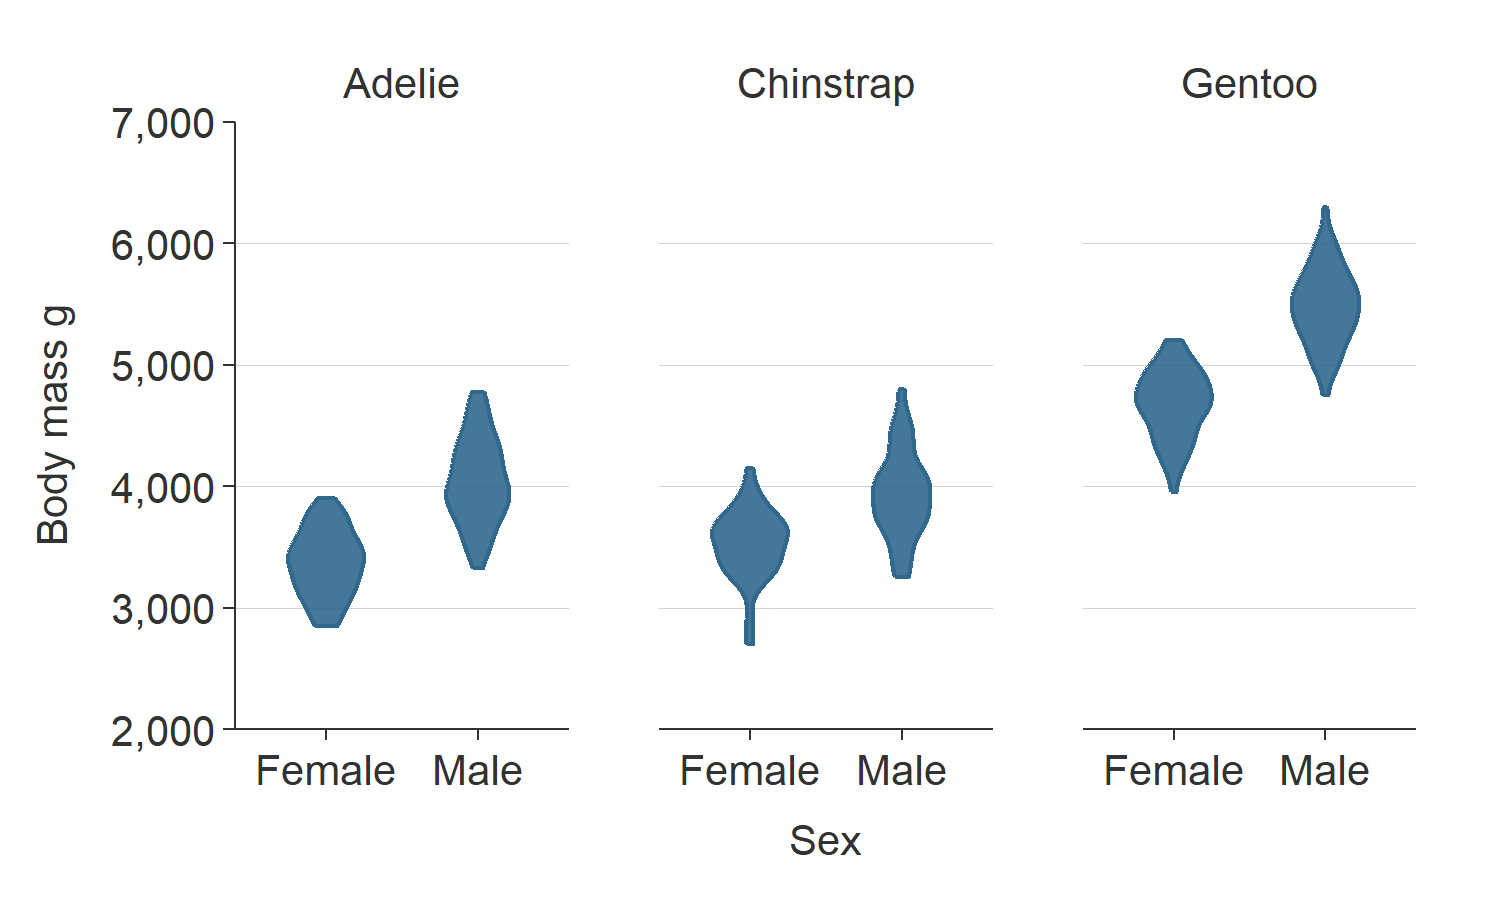
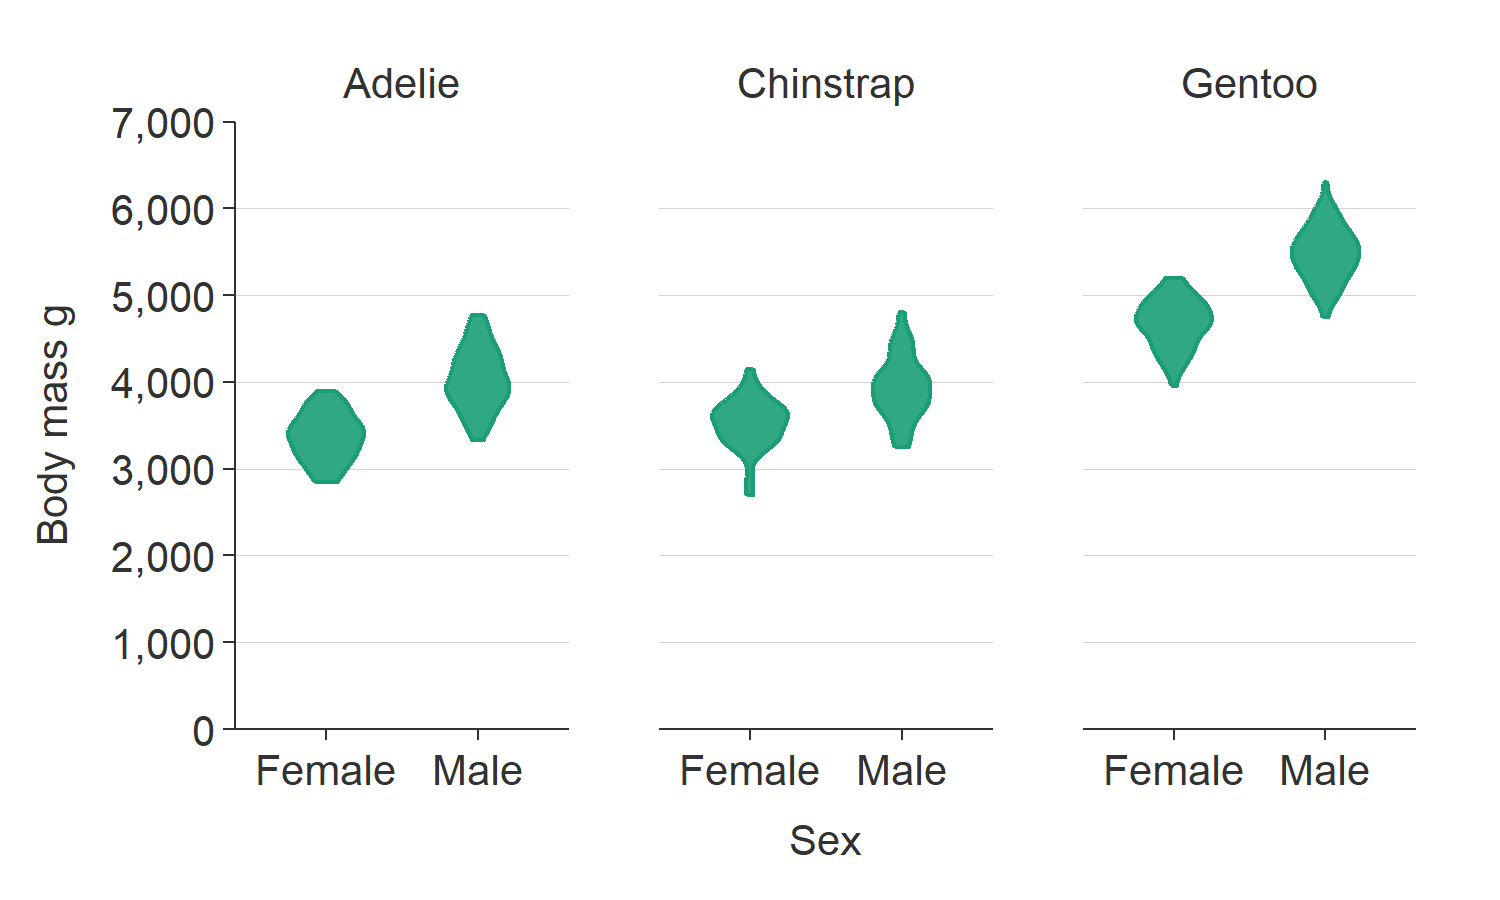
Minor readme changes

diff --git a/README.md b/README.md
@@ -96,11 +96,16 @@ penguins %>%
 3.  {ggblanket} provides colour customisation via pal and alpha
     arguments.
 
+These arguments are the same regardless of whether a col variable is
+specified. If more colours are provided than needed by the pal argument,
+then the excess colours will just be dropped. Note all colours specified
+by the pal argument will inherit to any further `ggplot2::geom_*` layers
+added.
+
 ``` r
 penguins %>% 
   gg_density(x = body_mass_g, col = species, 
-             pal = pals::brewer.dark2(3), 
-             alpha = 0.5)
+             pal = pals::brewer.dark2(9))
 ```
 
 ![](man/figures/README-unnamed-chunk-5-1.png)<!-- -->
@@ -111,7 +116,10 @@ penguins %>%
 penguins %>% 
   tidyr::drop_na() %>%
   mutate(sex = stringr::str_to_sentence(sex)) %>% 
-  gg_violin(x = sex, y = body_mass_g, facet = species)
+  gg_violin(x = sex, y = body_mass_g, facet = species, 
+            y_include = 0, 
+            y_breaks = scales::breaks_width(1000),
+            pal = pals::brewer.dark2(9))
 ```
 
 ![](man/figures/README-unnamed-chunk-6-1.png)<!-- -->
